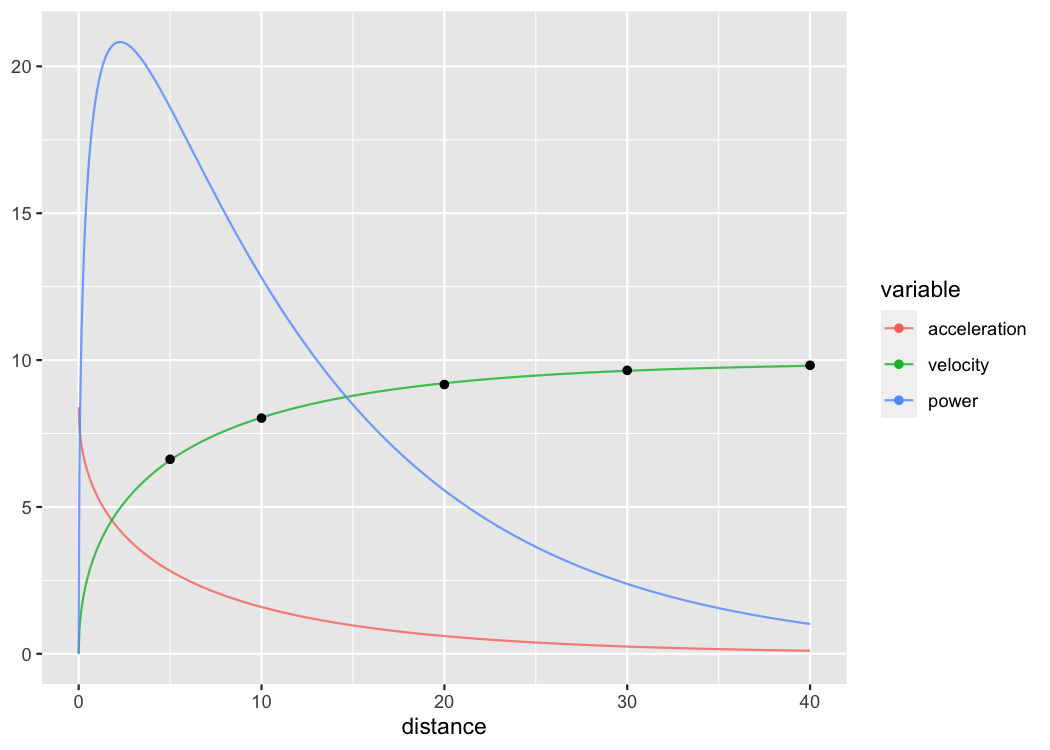
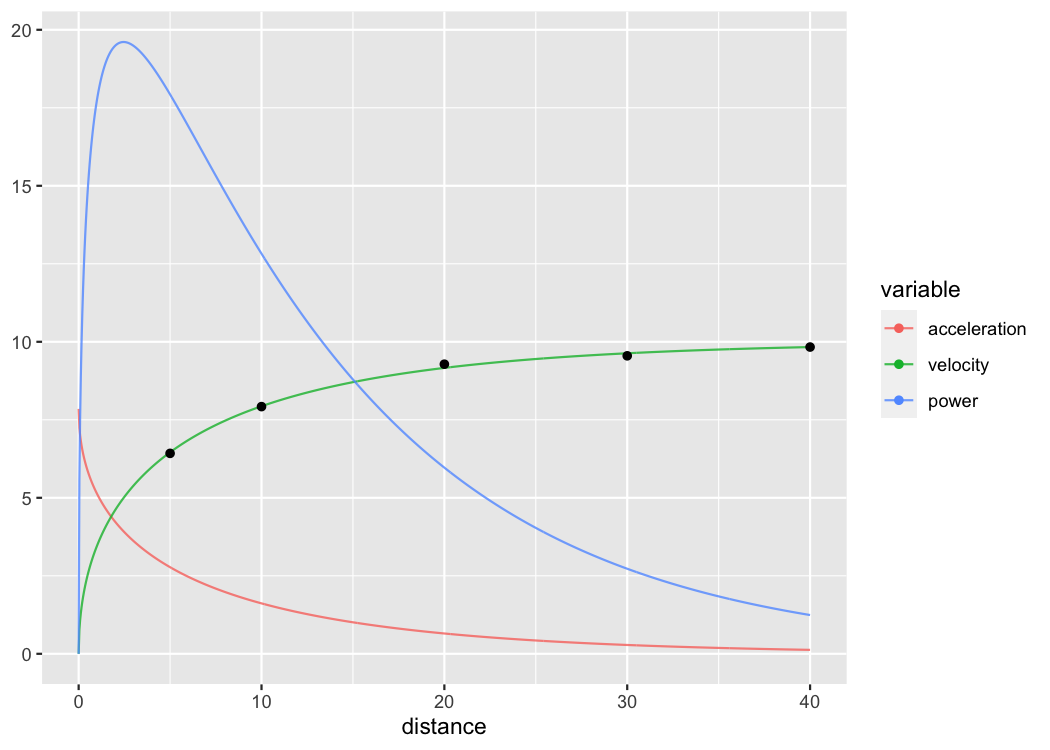
REbuilt README

diff --git a/README.md b/README.md
@@ -1,5 +1,5 @@
 
-<!-- README.md is generated from README.Rmd. Please edit that file -->
+<!-- README.md is generated from README.Rmd. Please edit that file  -->
 
 # shorts <img src="man/figures/logo.png" align="right" width="200" />
 
@@ -663,20 +663,20 @@ jim_profile_CV
 #> # A tibble: 10 × 5
 #>      MSS   TAU   MAC  PMAX         TC
 #>    <dbl> <dbl> <dbl> <dbl>      <dbl>
-#>  1  8.00 0.890  8.99  18.0  0.000295 
-#>  2  8.00 0.890  8.99  18.0  0.000154 
-#>  3  8.00 0.889  9.00  18.0  0.000194 
-#>  4  8.00 0.888  9.00  18.0  0.0000565
-#>  5  8.00 0.889  9.00  18.0  0.000175 
-#>  6  8.00 0.888  9.01  18.0 -0.000121 
-#>  7  8.00 0.889  9.00  18.0  0.000257 
-#>  8  8.00 0.889  9.00  18.0  0.000332 
-#>  9  8.00 0.888  9.00  18.0 -0.0000673
-#> 10  8.00 0.888  9.00  18.0 -0.000213 
+#>  1  8.00 0.889  9.00  18.0 -0.0000351
+#>  2  8.00 0.889  9.00  18.0  0.0000291
+#>  3  8.00 0.889  8.99  18.0  0.000133 
+#>  4  8.00 0.888  9.01  18.0  0.0000355
+#>  5  8.00 0.888  9.01  18.0 -0.000148 
+#>  6  8.00 0.888  9.00  18.0  0.000105 
+#>  7  8.00 0.889  8.99  18.0  0.000298 
+#>  8  8.00 0.890  8.99  18.0  0.000483 
+#>  9  8.00 0.890  8.99  18.0  0.000221 
+#> 10  8.00 0.888  9.00  18.0 -0.0000143
 #> 
 #> Testing model fit:
 #>       RSE R_squared    minErr    maxErr maxAbsErr      RMSE       MAE      MAPE 
-#>        NA     0.999    -0.165     0.152     0.165     0.051     0.039       Inf
+#>        NA     0.999    -0.164     0.153     0.164     0.051     0.040       Inf
 ```
 
 ### Optimization
